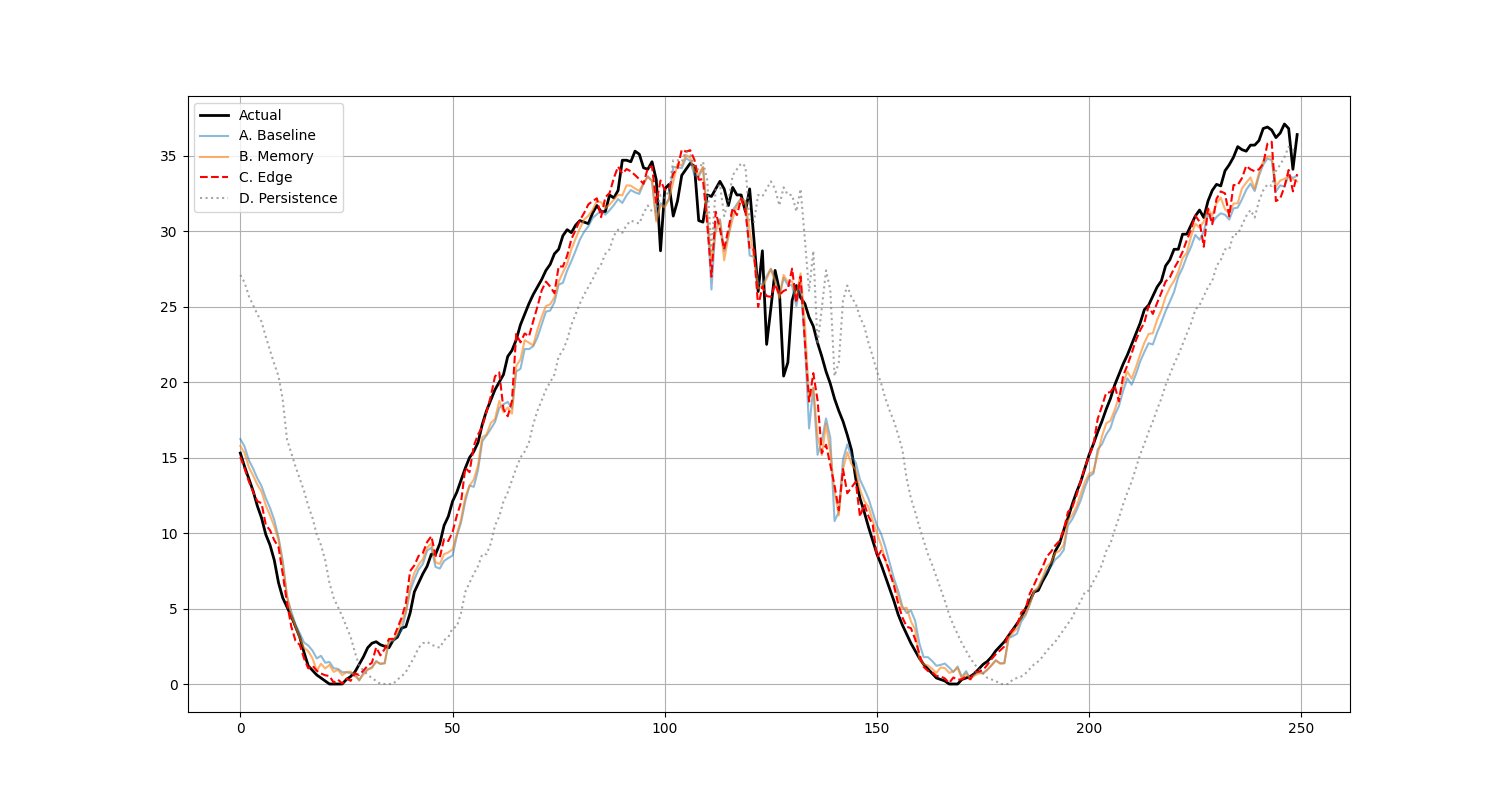
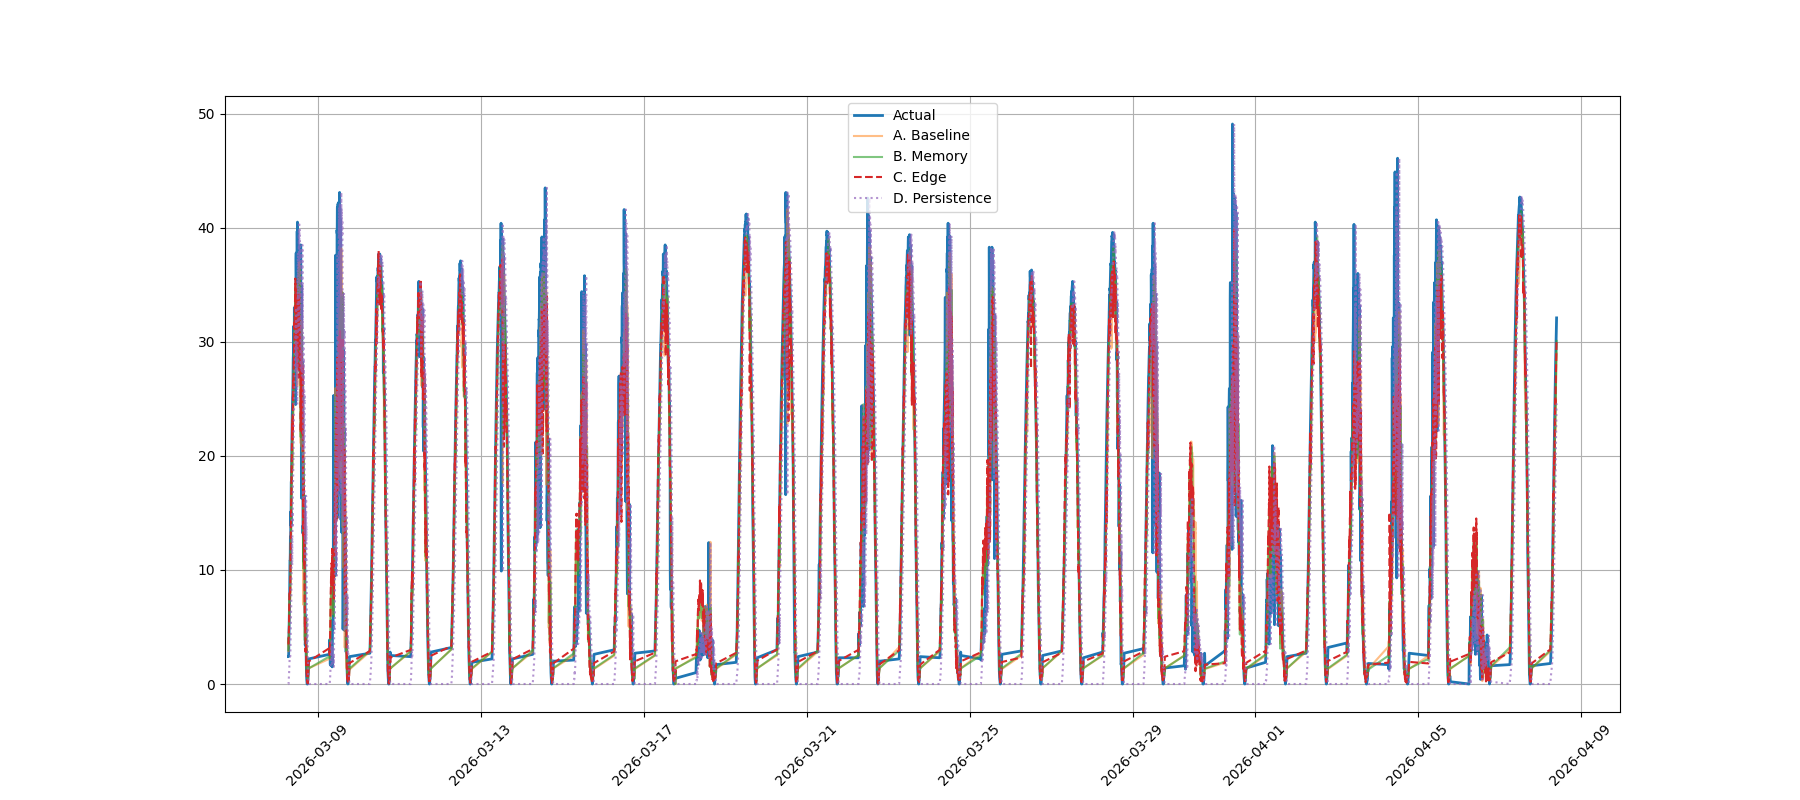
그래프 x축 범위 확장

diff --git a/train_model.py b/train_model.py
@@ -117,15 +117,37 @@ def run_comparison(sn):
     print("\nPerformance Summary:")
     print(pd.DataFrame(summary).to_string(index=False))
     
-    plt.figure(figsize=(15, 8))
-    start_idx, end_idx = 400, 650
-    plt.plot(actual[start_idx:end_idx], label='Actual', color='black', linewidth=2)
-    plt.plot(results['Baseline'][start_idx:end_idx], label='A. Baseline', alpha=0.5)
-    plt.plot(results['Memory'][start_idx:end_idx], label='B. Memory', alpha=0.6)
-    plt.plot(results['Edge'][start_idx:end_idx], label='C. Edge', color='red', linestyle='--')
-    plt.plot(pred_pers[start_idx:end_idx], label='D. Persistence', color='gray', linestyle=':', alpha=0.7)
-    plt.legend(); plt.grid(True)
-    plt.savefig(f'final_comparison_{sn}_weather.png'); plt.close()
+    # 그래프 일부만
+    # plt.figure(figsize=(15, 8))
+    # start_idx, end_idx = 400, 650
+    # plt.plot(actual[start_idx:end_idx], label='Actual', color='black', linewidth=2)
+    # plt.plot(results['Baseline'][start_idx:end_idx], label='A. Baseline', alpha=0.5)
+    # plt.plot(results['Memory'][start_idx:end_idx], label='B. Memory', alpha=0.6)
+    # plt.plot(results['Edge'][start_idx:end_idx], label='C. Edge', color='red', linestyle='--')
+    # plt.plot(pred_pers[start_idx:end_idx], label='D. Persistence', color='gray', linestyle=':', alpha=0.7)
+    # plt.legend(); plt.grid(True)
+    # plt.savefig(f'final_comparison_{sn}_weather.png'); plt.close()
+
+
+    # 👉 전체 시간
+    plt.figure(figsize=(18, 8))
+
+    time_all = test_df['time']
+
+    plt.plot(time_all, actual, label='Actual', linewidth=2)
+    plt.plot(time_all, results['Baseline'], label='A. Baseline', alpha=0.5)
+    plt.plot(time_all, results['Memory'], label='B. Memory', alpha=0.6)
+    plt.plot(time_all, results['Edge'], label='C. Edge', linestyle='--')
+    plt.plot(time_all, pred_pers, label='D. Persistence', linestyle=':', alpha=0.7)
+
+    plt.legend()
+    plt.grid(True)
+
+    # 👉 x축 시간 보기 좋게
+    plt.xticks(rotation=45)
+
+    plt.savefig(f'final_comparison_{sn}_weather.png')
+    plt.close()
 
 if __name__ == "__main__":
     for sn in ['3012', '5009']:
